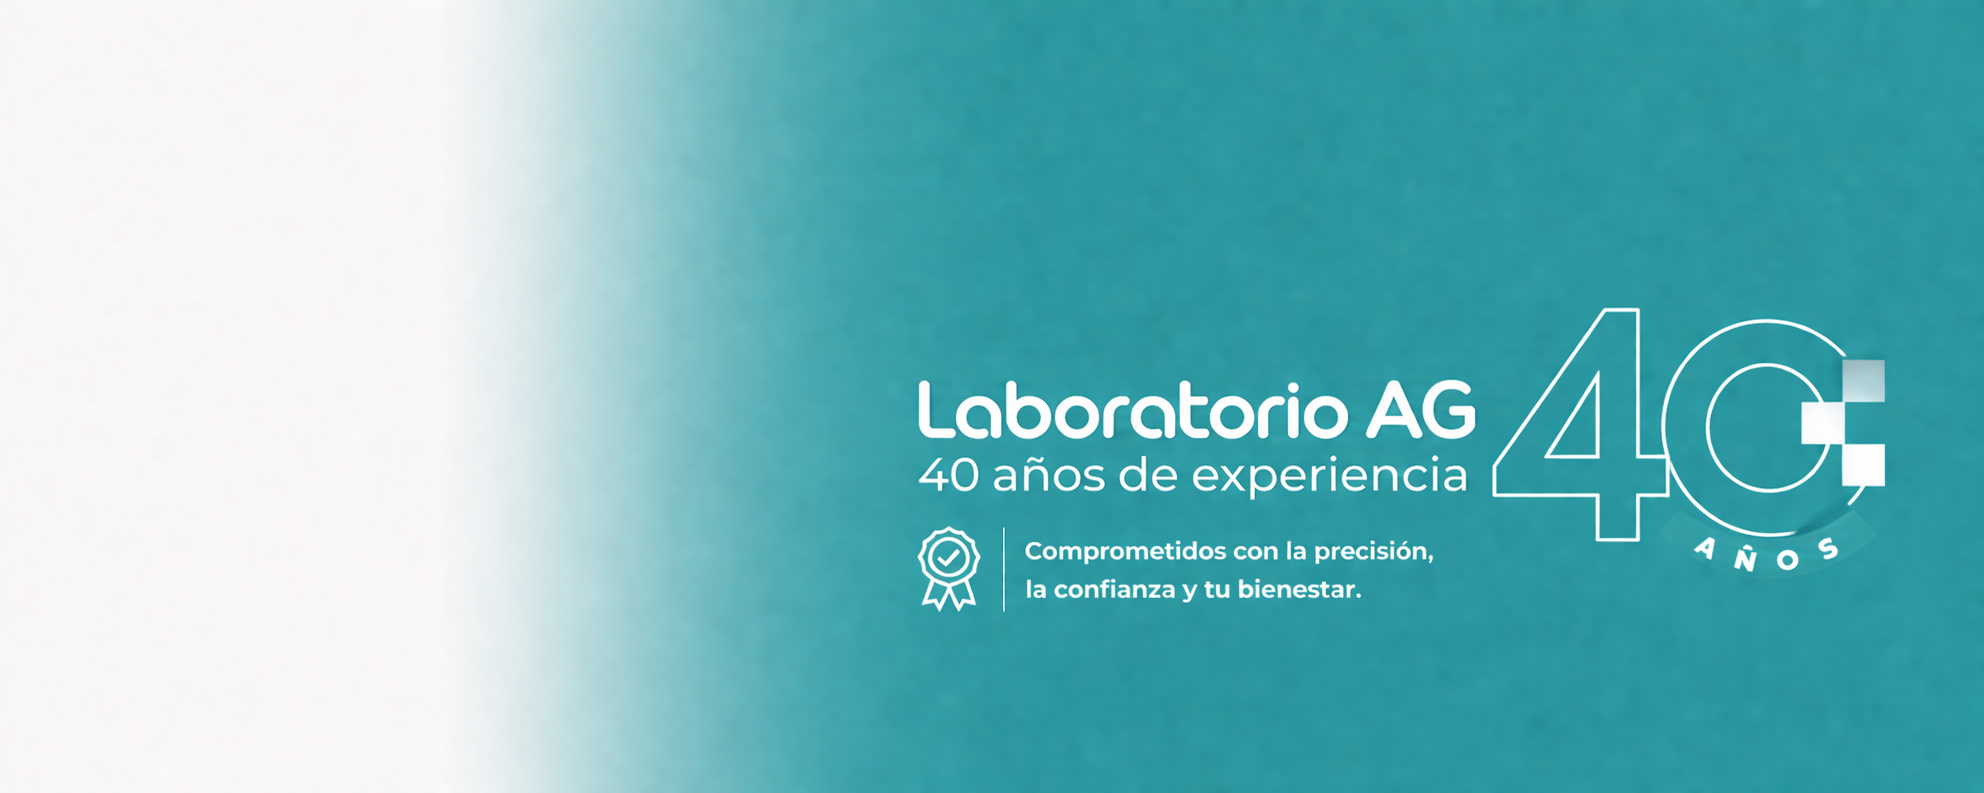
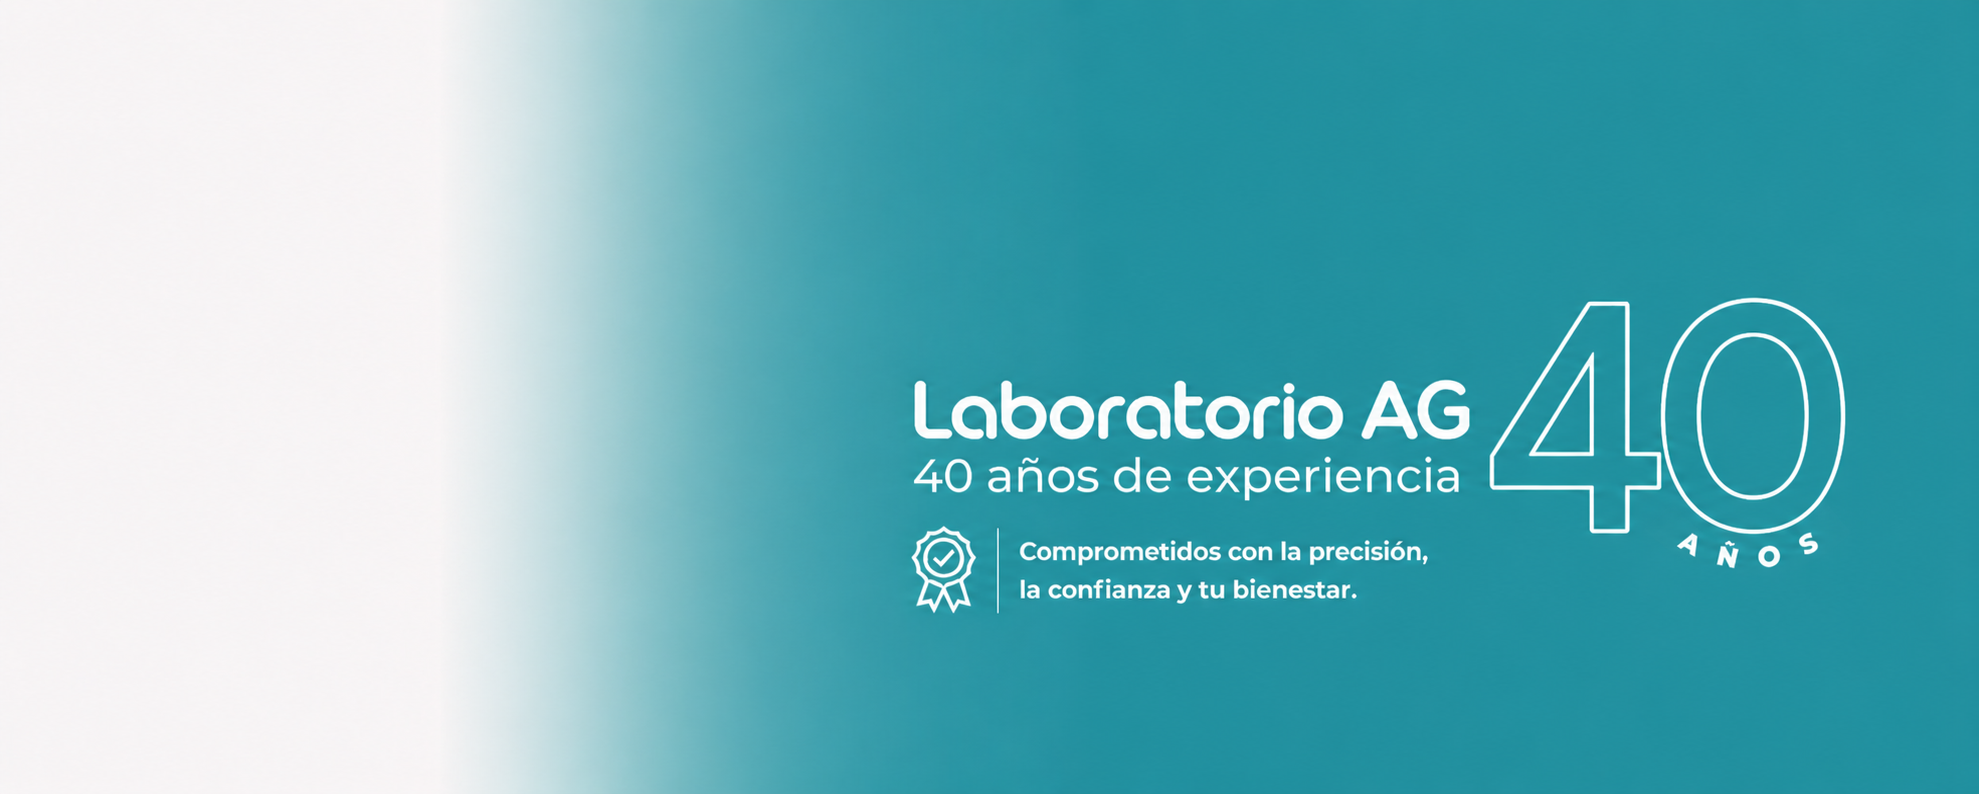
commit 11

Changed region(s): [[0.4624, 0.3632, 0.9555, 0.7264], [0.4624, 0.6658, 0.7398, 0.7869]]

diff --git a/src/app/auth/login/login.component.css b/src/app/auth/login/login.component.css
@@ -3,7 +3,7 @@
   justify-content: center;
   align-items: center;
   min-height: 100vh;
-  background: linear-gradient(135deg, #667eea 0%, #764ba2 100%);
+  background: linear-gradient(135deg, #8fdbd9 0%, #329d9c 100%);
   padding: 1rem;
 }
 
@@ -22,7 +22,7 @@ mat-card-header {
 mat-card-title h1 {
   font-size: 2.5rem;
   font-weight: 700;
-  color: #667eea;
+  color: #329d9c;
   margin: 0;
   text-align: center;
 }

diff --git a/src/app/auth/login/login.component.html b/src/app/auth/login/login.component.html
@@ -2,7 +2,7 @@
   <mat-card class="login-card">
     <mat-card-header>
       <mat-card-title>
-        <h1>SysLab</h1>
+        <h1>LaboratorioAG</h1>
         <p class="subtitle">Sistema de Laboratorio Clínico</p>
       </mat-card-title>
     </mat-card-header>
@@ -63,7 +63,7 @@
 
     <mat-card-footer>
       <p class="footer-text">
-        © 2024 SysLab - Sistema de Gestión de Laboratorio Clínico
+        © 2026 LaboratorioAG - Sistema de Gestión de Laboratorio Clínico
       </p>
     </mat-card-footer>
   </mat-card>